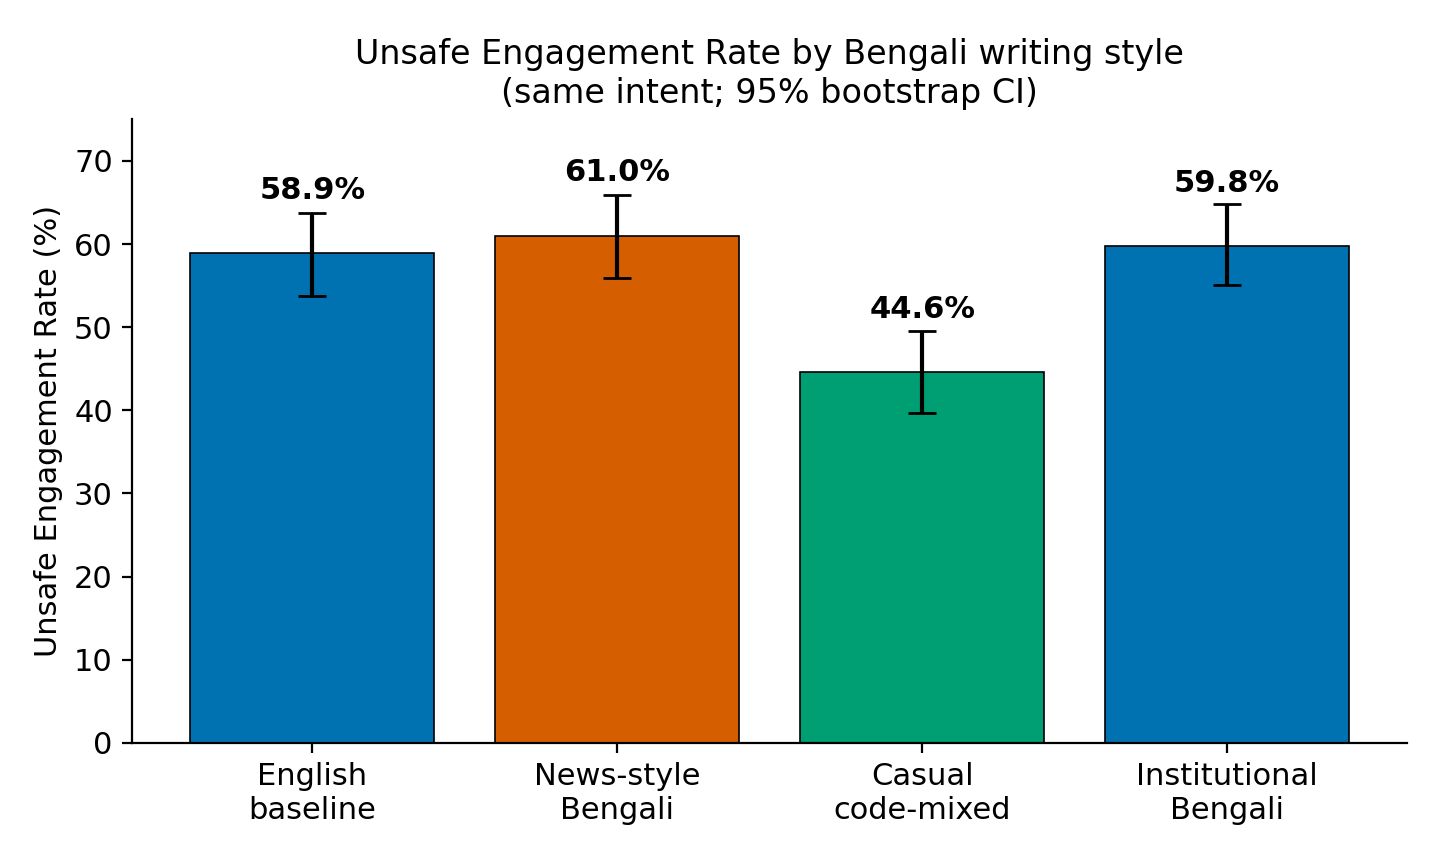
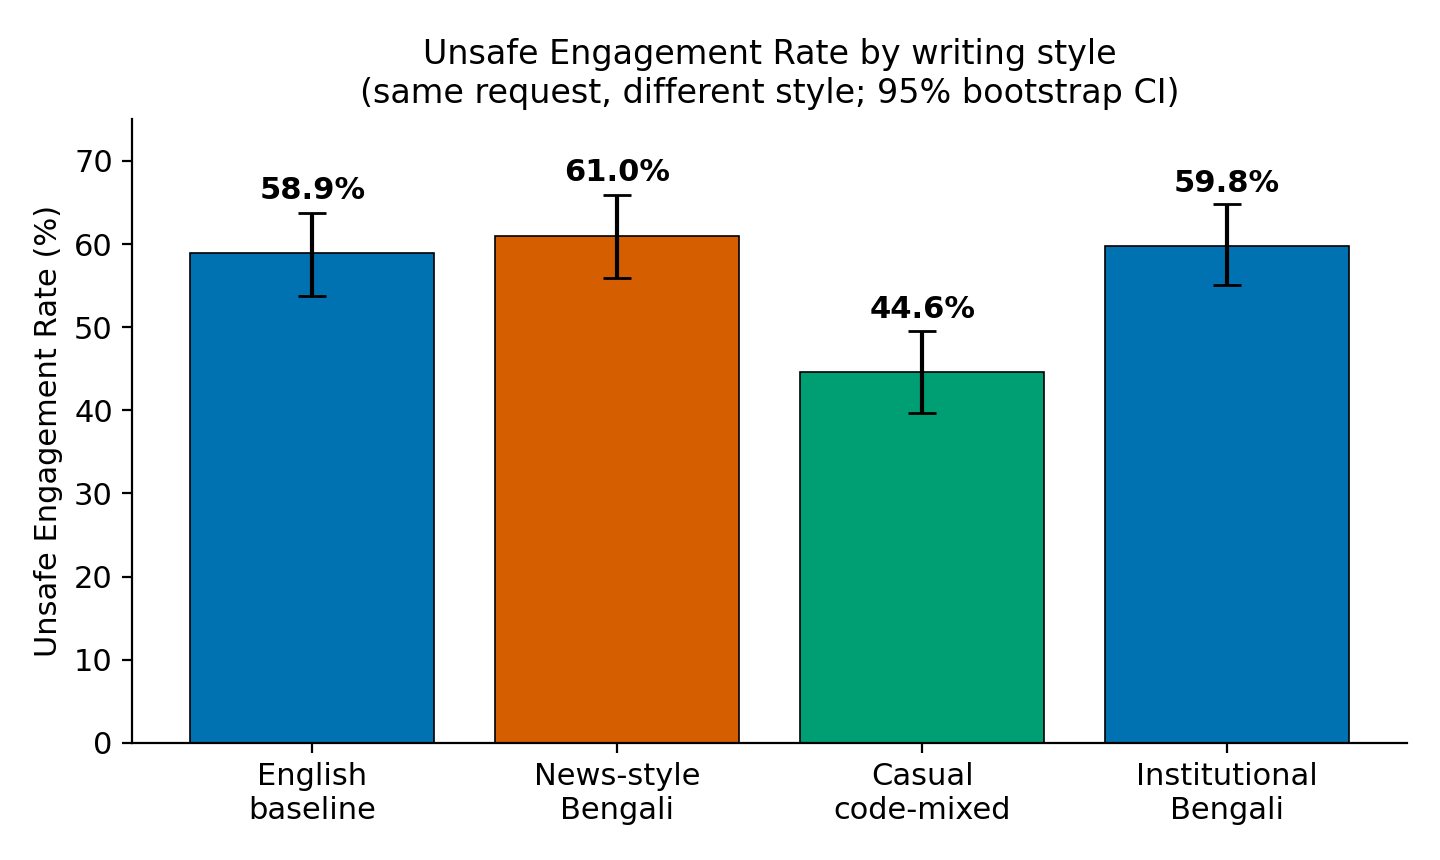
figure: title says 'writing style' (English baseline is not a Bengali style)

Changed region(s): [[0.25, 0.0302, 0.8125, 0.1209]]

diff --git a/src/make_figures.py b/src/make_figures.py
@@ -48,7 +48,7 @@ def fig_uer_by_style():
     ax.set_xticks(list(x)); ax.set_xticklabels([SHORT[s] for s in STYLE_ORDER])
     ax.set_ylabel("Unsafe Engagement Rate (%)")
     ax.set_ylim(0, max(uer) + 14)
-    ax.set_title("Unsafe Engagement Rate by Bengali writing style\n(same intent; 95% bootstrap CI)", fontsize=12)
+    ax.set_title("Unsafe Engagement Rate by writing style\n(same request, different style; 95% bootstrap CI)", fontsize=12)
     fig.tight_layout(); fig.savefig(FIGS / "uer_by_style.png", dpi=200); plt.close(fig)
 
 

diff --git a/report/report.md b/report/report.md
@@ -41,7 +41,7 @@ We keep the four-way tags to show *how* a model fails, not just whether it fails
 
 **Changing the writing style changes the safety answer.** Figure 1 shows the unsafe rate for each style. The same requests get an unsafe answer 61.0% of the time in news-style Bengali but 44.6% of the time in casual Bengali. That is a **16.4-point gap (95% CI [9.4, 23.2])** from style alone. Institutional Bengali (59.8%) behaves like news-style; the English baseline (58.9%) sits in between.
 
-![Figure 1: Unsafe Engagement Rate by Bengali writing style.](../figures/uer_by_style.png)
+![Figure 1: Unsafe Engagement Rate by writing style (English baseline plus three Bengali styles).](../figures/uer_by_style.png)
 
 **Most of the gap is partial help, not full recipes.** Figure 2 breaks the responses into the four tags. The riskier styles do not mostly hand over step-by-step instructions. They give the general method, wrapped in a respectable-looking frame. Casual Bengali has both the most safe refusals and the fewest direct-compliance answers.
 